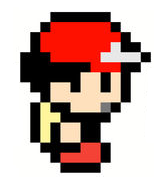
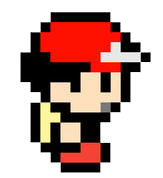
player can now walk on layered grass

Changed region(s): [[0.1227, 0.0562, 0.9509, 0.9831]]

diff --git a/app.js b/app.js
@@ -56,13 +56,12 @@ new Vue({
                 this.player = document.getElementById('player')
                 this.playerId = this.player.className
                 this.playerId = parseInt(this.playerId)
-
                 squares[this.playerId].removeAttribute('id')
                 squares[this.playerId].classList.add('squares')
-                squares[this.playerId].style.backgroundImage = "none"
+                squares[this.playerId].style.backgroundImage = "url('images/grass.png')"
                 squares[this.playerId + 1].id = 'player'
                 squares[this.playerId + 1].classList.remove('squares')
-                squares[this.playerId + 1].style.backgroundImage = "url('images/redRight.png')"
+                squares[this.playerId + 1].style.backgroundImage = "url('images/redRight.png'), url('images/grass.png')"
                 }
             })
         // Player Moves Left
@@ -71,13 +70,12 @@ new Vue({
                 this.player = document.getElementById('player')
                 this.playerId = this.player.className
                 this.playerId = parseInt(this.playerId)
-
                 squares[this.playerId].removeAttribute('id')
                 squares[this.playerId].classList.add('squares')
-                squares[this.playerId].style.backgroundImage = "none"
+                squares[this.playerId].style.backgroundImage = "url('images/grass.png')"
                 squares[this.playerId - 1].id = 'player'
                 squares[this.playerId - 1].classList.remove('squares')
-                squares[this.playerId - 1].style.backgroundImage = "url('images/redFront.png')"
+                squares[this.playerId - 1].style.backgroundImage = "url('images/redLeft.png'), url('images/grass.png')"
                 }
             })
 
@@ -88,13 +86,12 @@ new Vue({
                 this.player = document.getElementById('player')
                 this.playerId = this.player.className
                 this.playerId = parseInt(this.playerId)
-
                 squares[this.playerId].removeAttribute('id')
                 squares[this.playerId].classList.add('squares')
-                squares[this.playerId].style.backgroundImage = "none"
+                squares[this.playerId].style.backgroundImage = "url('images/grass.png')"
                 squares[this.playerId + 10].id = 'player'
                 squares[this.playerId + 10].classList.remove('squares')
-                squares[this.playerId + 10].style.backgroundImage = "url('images/redFront.png')"
+                squares[this.playerId + 10].style.backgroundImage = "url('images/redFront.png'), url('images/grass.png')"
                 }
             })
 
@@ -104,13 +101,12 @@ new Vue({
                 this.player = document.getElementById('player')
                 this.playerId = this.player.className
                 this.playerId = parseInt(this.playerId)
-
                 squares[this.playerId].removeAttribute('id')
                 squares[this.playerId].classList.add('squares')
-                squares[this.playerId].style.backgroundImage = "none"
+                squares[this.playerId].style.backgroundImage = "url('images/grass.png')"
                 squares[this.playerId - 10].id = 'player'
                 squares[this.playerId - 10].classList.remove('squares')
-                squares[this.playerId - 10].style.backgroundImage = "url('images/redFront.png')"
+                squares[this.playerId - 10].style.backgroundImage = "url('images/redBack.png'), url('images/grass.png')"
                 }
             })
     }

diff --git a/style.css b/style.css
@@ -26,15 +26,16 @@
 .squares{
   height: 2rem;
   width: 2rem;
-  background: red;
-  border: 1px solid white;
+  background: url("images/grass.png");
+  background-size: contain;
 }
 
 #player{
   height: 2rem;
   width: 2rem;
-
-  background-image: url("images/redFront.png");
+  background-image: 
+  url("images/redFront.png"),
+  url("images/grass.png");
   background-size: contain;
 
 }
